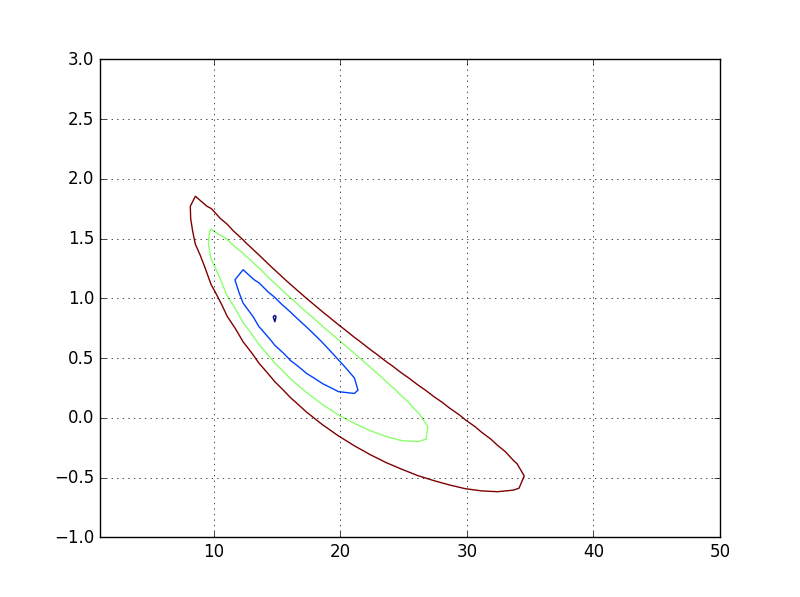
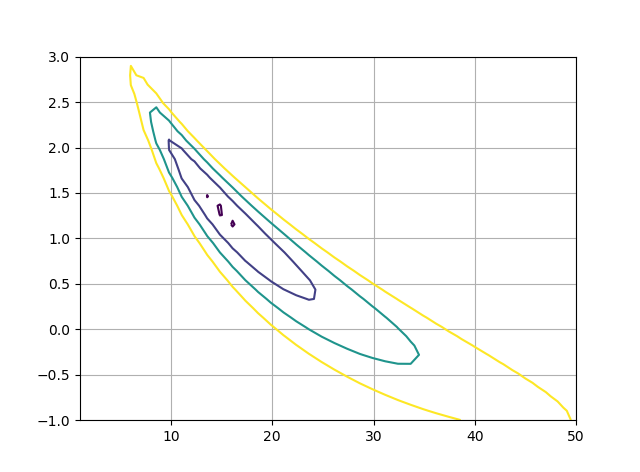
printed plots and values

diff --git a/COBE-DMR/plot_contours.py b/COBE-DMR/plot_contours.py
@@ -7,6 +7,7 @@
 import numpy as np
 import matplotlib.pyplot as plt
 import sys
+import pylab
 
 if __name__ == "__main__":
     if len(sys.argv)<2:
@@ -42,13 +43,19 @@ if __name__ == "__main__":
     my_levels = [0.1, 2.3, 6.17, 11.8]
     cs = plt.contour(qgrid,ngrid, -2.*lnL, levels=my_levels) #, colors='k'
     plt.grid()
-    #plt.legend(["0.1", "2.3", "6.17", "11.8"])
+    plt.xlabel("Q") 
+    plt.ylabel("n",rotation=0) 
+    plt.title("")
+    labels = ["Peak", "3 Sigma", "2 Sigma", "1 Sigma"]
+    for i in range(len(labels)): 
+        cs.collections[i].set_label(labels[i])
+    plt.legend(loc='upper right')
     plt.show()
 
 
     
     
-    # First, exponentiate, and subtract off the biggest
+    # exponentiate, and subtract off the biggest
     # value to avoid overflow and find P(d| Q,n)    
     P = np.exp(lnL_init-np.max(lnL_init))  
     dn = n_values[1] - n_values[0]
@@ -60,20 +67,34 @@ if __name__ == "__main__":
     # Compute marginal distribution, P(n|d)
     n_num = len(n_values)
     P_n = np.zeros(n_num)
+    P_Q = np.zeros(n_num)
     for i in range(0, n_num):
-        # Here we are integrating
-        # to get P_n, for P_Q be sure to integrate
+        # integrate to get P_n, for P_Q be sure to integrate
         # over the other dimension in P!
         P_n[i] = np.sum(P[:,i])  
+        P_Q[i] = np.sum(P[i,:])
     
     # We now normalize (note the dn - replace for P_Q!)   
     P_n = P_n / (sum(P_n) * dn)  
+    P_Q = P_Q / (sum(P_Q) * dQ)  
     
-    # We can now compute the mean    
+    # We can now compute the mean mu and  the uncertainty sigma
     mu_n = sum(P_n * n_values)*dn                    
-    print "mu_n=",mu_n
+    sigma_n = np.sqrt(sum(P_n * (n_values-mu_n)**2)*dn)                 
+    print "   mu_n =",mu_n  
+    print "sigma_n =",sigma_n,"\n"
     
-    # And lastly, we find the uncertainty   
-    sigma_n = np.sqrt(sum(P_n * (n_values-mu_n)**2)*dn) 
-    print "sigma_n=",sigma_n
+    mu_Q = sum(P_Q * Q_values)*dQ  
+    sigma_Q = np.sqrt(sum(P_Q * (Q_values-mu_Q)**2)*dQ) 
+    print "   mu_Q =",mu_Q
+    print "sigma_Q =",sigma_Q
     
+    plt.plot(n_values,P_n)
+    plt.xlabel("n") 
+    plt.ylabel("P(n)") 
+    plt.legend(["P(n)"]) 
+    plt.show() 
+    plt.plot(n_values,P_Q)   
+    plt.ylabel("P(Q)")  
+    plt.legend(["P(Q)"]) 
+    plt.show() 

diff --git a/COBE-DMR/params.py b/COBE-DMR/params.py
@@ -5,7 +5,7 @@ debug_mode = True # or False. debug_mode prints lnL to .dat file in-loop, and pr
 #debug_mode = False
 nside      = 16
 lmax       = 47
-band       = 53 # or 90, in GHz
+band       = 90 # or 90, in GHz
 #band       = 90
 
 # Grid specifications
